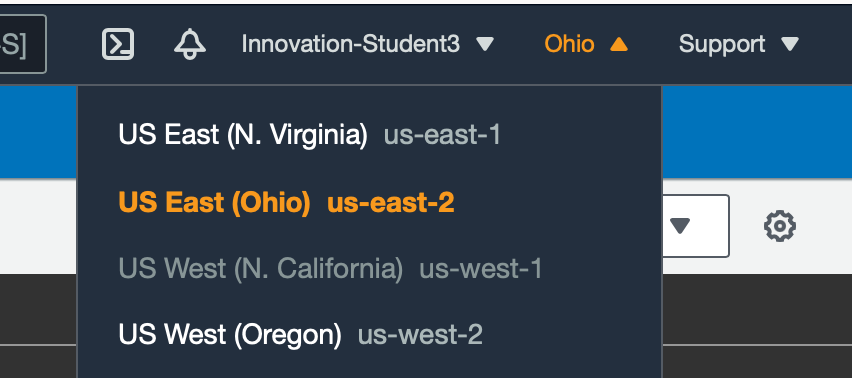
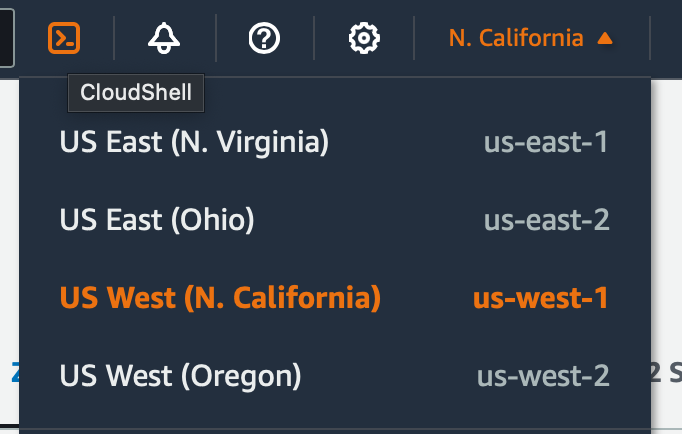
us-west-1 region

diff --git a/labs/lab-setup/index.md b/labs/lab-setup/index.md
@@ -13,8 +13,7 @@ On the top right side, select the **US West (N. California)** `us-west-1` region
 ![region](images/region.png)
 
 ### Start the CloudShell 
-After selecting the `US-East-2` region, use the search bar at the top of the page to search for `CloudShell`. Click on the result shown in the screenshot.
-![cloudshell](images/cloudshell.png)
+After selecting the `US-East-2` region, use the search bar at the top of the page to search for `CloudShell`. 
 
 ## Cleanup
 Remove any files from previous training sessions. 
